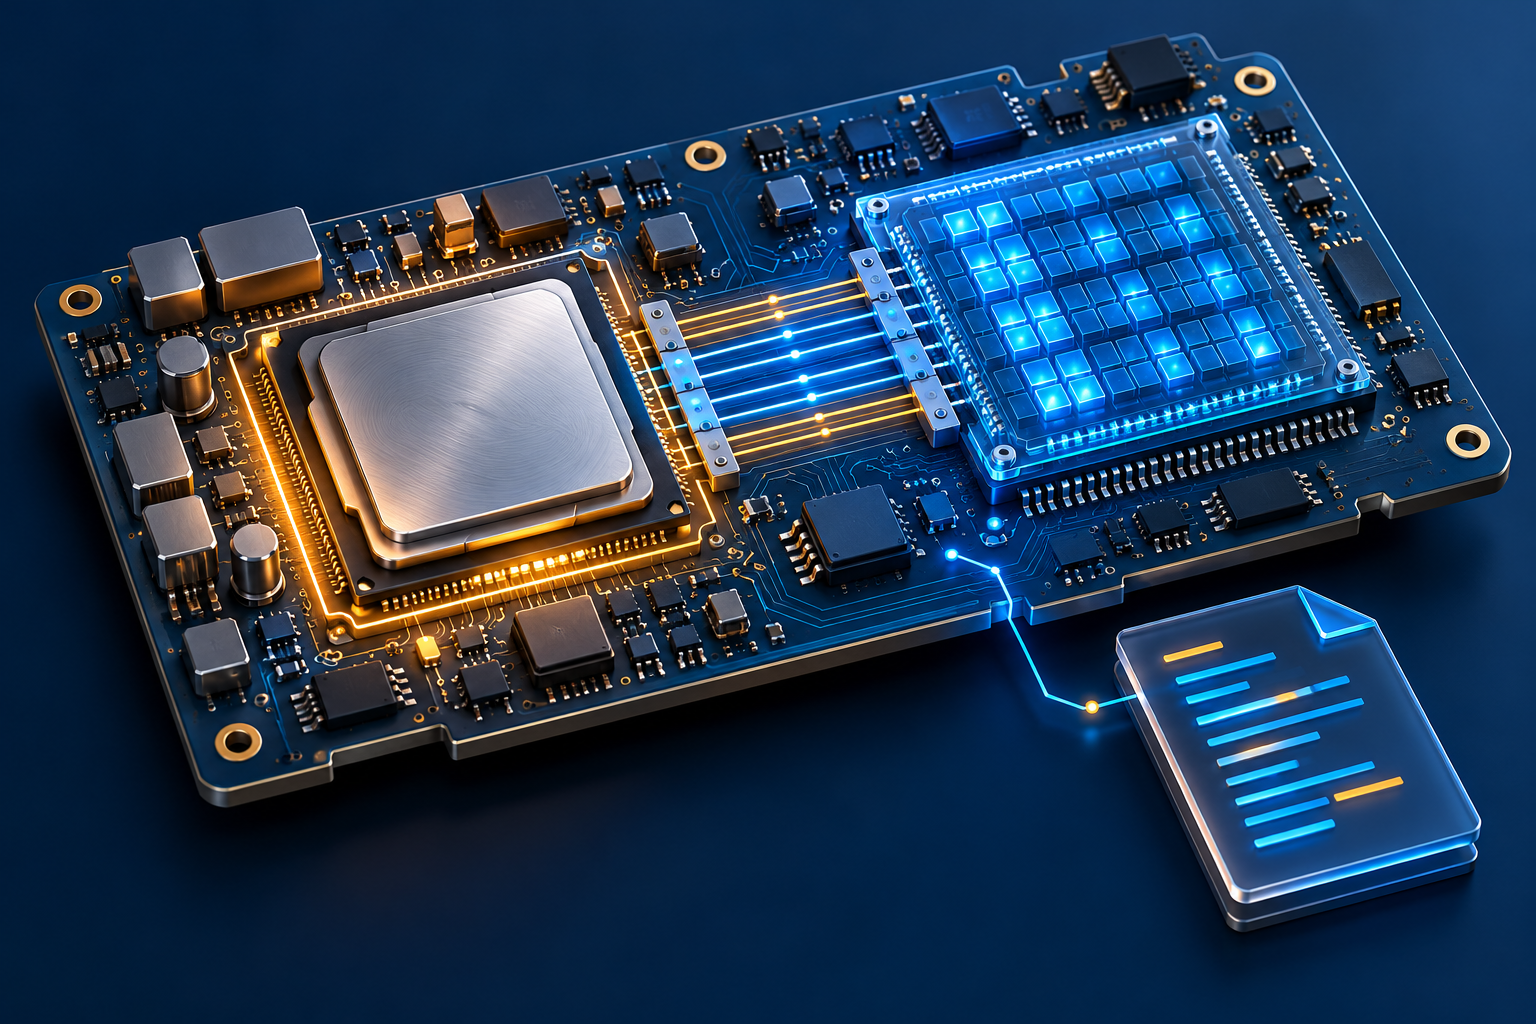
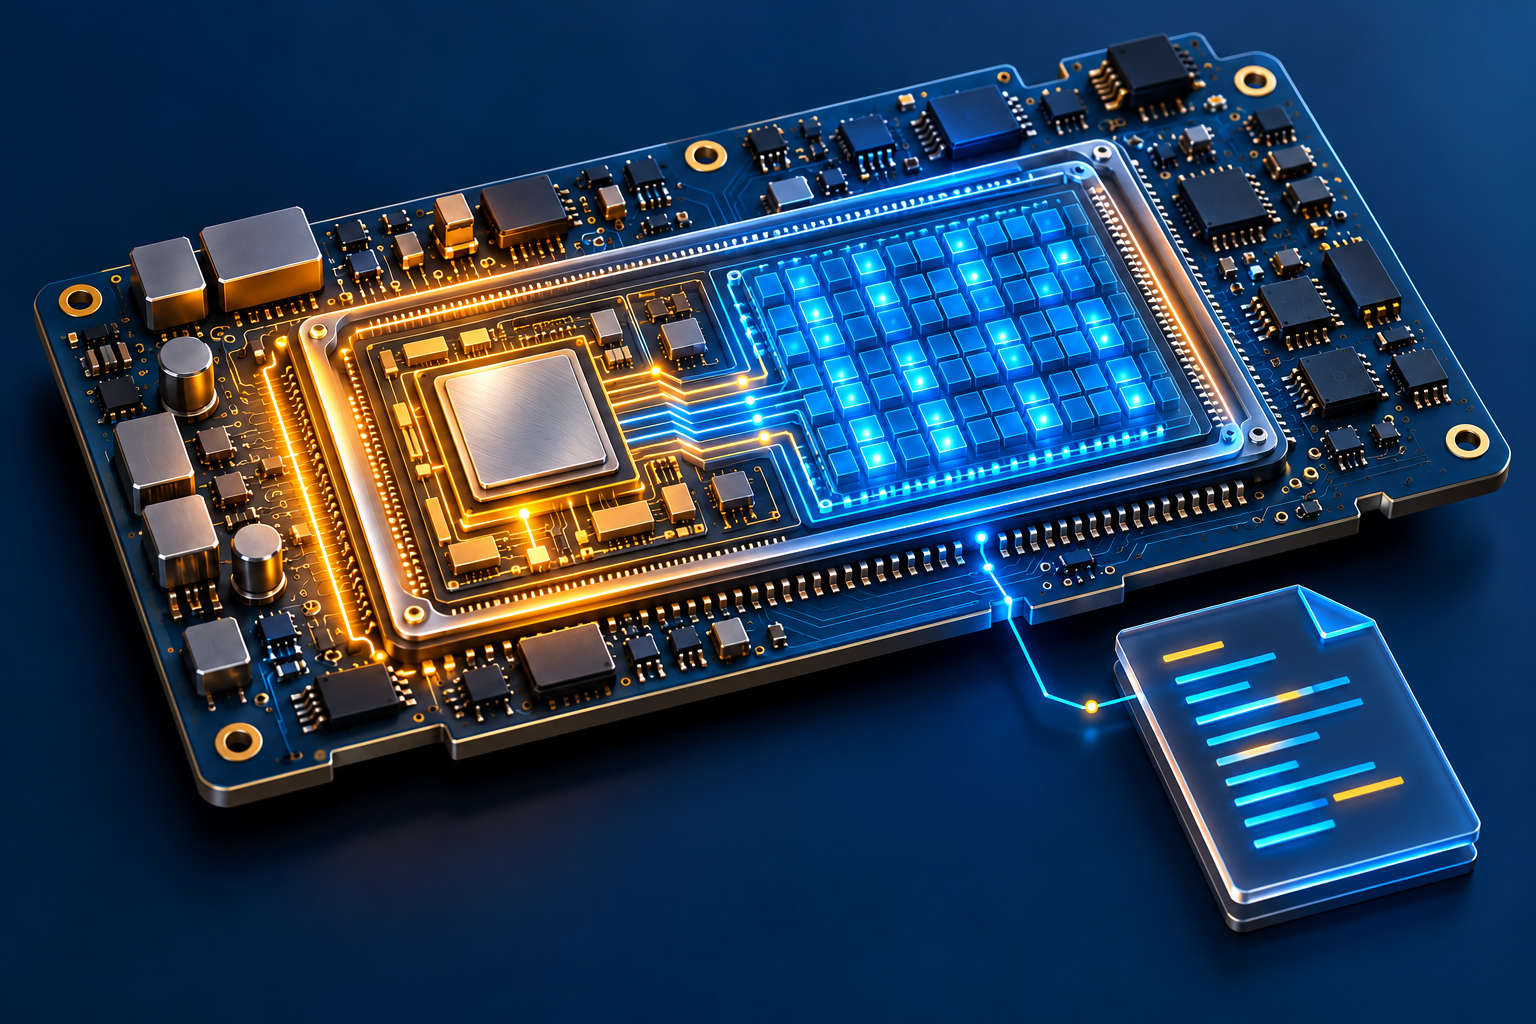
Align the Zynq cover with one-device architecture and record V2 verification

diff --git a/_includes/learning/lab.html b/_includes/learning/lab.html
@@ -15,5 +15,5 @@
   <section id="module-followup" class="module-followup" hidden></section>
   <p class="simulation-note">{% if page.course == 'git' %}A synthetic Git workspace. Buttons model selected Git actions; they do not access your files or run commands.{% else %}A simplified dependency model for standalone development with Vitis Classic 2023.2. It does not run Vivado or Vitis. Board-specific labs are outside this lesson.{% endif %}</p>
   <details class="activity-details"><summary>Your activity</summary><p>Activity and reflections stay in this browser. Experiments restart when a chapter is reopened. Completing an activity is not a mastery score.</p><button class="text-button" id="reset-course" type="button">Reset module activity</button></details>
-  <details class="source-details"><summary>Sources and model boundaries</summary>{% if page.course == 'git' %}<p>These lessons model selected file, branch, review, and integration states. They do not execute arbitrary Git commands, connect to a real GitHub account, run an AI service, or replace a real build. The checks inspect the supplied synthetic example. File tracking and review policies are specific to this project.</p><p><a href="https://git-scm.com/docs/git-add">Git add</a> · <a href="https://git-scm.com/docs/git-commit">Git commit</a> · <a href="https://git-scm.com/docs/git-push">Git push</a> · <a href="https://git-scm.com/docs/git-fetch">Git fetch</a> · <a href="https://git-scm.com/docs/git-restore">Git restore</a> · <a href="https://git-scm.com/docs/git-revert">Git revert</a> · <a href="https://git-scm.com/docs/git-merge">Git merge</a> · <a href="https://docs.github.com/en/get-started/using-github/github-flow">GitHub flow</a> · <a href="https://docs.github.com/en/actions/get-started/understand-github-actions">GitHub Actions</a> · <a href="https://docs.github.com/en/copilot/responsible-use/code-review">Responsible AI review</a></p>{% else %}<p>The version labels are illustrative. XSA export options determine whether a bitstream is included; here the hardware handoff and bitstream are shown separately. The hardware-change example changes a software-visible interface, so both sides need attention. Real build dependencies and boot contents depend on the selected design and board.</p><p>AMD specifies <code>vitis --classic</code> for Classic in 2023.2 and refers Classic users to the 2023.1 documentation. The lab uses those concepts without claiming screenshots or physical verification.</p><p><a href="https://docs.amd.com/r/2023.2-English/ug1400-vitis-embedded/Changed-Behavior">2023.2 version boundary</a> · <a href="https://docs.amd.com/r/2023.1-English/ug1400-vitis-embedded/Target-Platform">Classic platform</a> · <a href="https://docs.amd.com/r/2023.1-English/ug1400-vitis-embedded/bsp">BSP</a> · <a href="https://docs.amd.com/r/2023.1-English/ug1400-vitis-embedded/Linker-Scripts">Linker scripts</a> · <a href="https://xilinx.github.io/Embedded-Design-Tutorials/docs/2023.1/build/html/docs/Introduction/Zynq7000-EDT/2-using-zynq.html">PS-only design</a></p>{% endif %}</details>
+  <details class="source-details"><summary>Sources and model boundaries</summary>{% if page.course == 'git' %}<p>These lessons model selected file, branch, review, and integration states. They do not execute arbitrary Git commands, connect to a real GitHub account, run an AI service, or replace a real build. The checks inspect the supplied synthetic example. File tracking and review policies are specific to this project.</p><p><a href="https://git-scm.com/docs/git-add">Git add</a> · <a href="https://git-scm.com/docs/git-commit">Git commit</a> · <a href="https://git-scm.com/docs/git-push">Git push</a> · <a href="https://git-scm.com/docs/git-fetch">Git fetch</a> · <a href="https://git-scm.com/docs/git-restore">Git restore</a> · <a href="https://git-scm.com/docs/git-revert">Git revert</a> · <a href="https://git-scm.com/docs/git-merge">Git merge</a> · <a href="https://docs.github.com/en/get-started/using-github/github-flow">GitHub flow</a> · <a href="https://docs.github.com/en/actions/get-started/understand-github-actions">GitHub Actions</a> · <a href="https://docs.github.com/en/copilot/responsible-use/code-review">Responsible AI review</a></p>{% else %}<p>The version labels are illustrative. XSA export options determine whether a bitstream is included; here the hardware handoff and bitstream are shown separately. The hardware-change example changes a software-visible interface, so both sides need attention. Real build dependencies and boot contents depend on the selected design and board.</p><p>AMD specifies <code>vitis --classic</code> for Classic in 2023.2 and refers Classic users to the 2023.1 documentation. The lab uses those concepts without claiming screenshots or physical verification.</p><p><a href="https://github.com/Xilinx/Embedded-Design-Tutorials/blob/master/docs/Getting_Started/Zynq7000-EDT/1-introduction.rst">PS/PL device architecture</a> · <a href="https://docs.amd.com/r/2023.2-English/ug1400-vitis-embedded/Changed-Behavior">2023.2 version boundary</a> · <a href="https://docs.amd.com/r/2023.1-English/ug1400-vitis-embedded/Target-Platform">Classic platform</a> · <a href="https://docs.amd.com/r/2023.1-English/ug1400-vitis-embedded/bsp">BSP</a> · <a href="https://docs.amd.com/r/2023.1-English/ug1400-vitis-embedded/Linker-Scripts">Linker scripts</a> · <a href="https://xilinx.github.io/Embedded-Design-Tutorials/docs/2023.1/build/html/docs/Introduction/Zynq7000-EDT/2-using-zynq.html">PS-only design</a></p>{% endif %}</details>
 </div>

diff --git a/docs/v2/verification.md b/docs/v2/verification.md
@@ -1,0 +1,77 @@
+# V2 verification · 2026-10-26
+
+V2 is ready as a checked static preview on `codex/interactive-learning`. It has two
+topics, six connected modules, and 23 mapped chapters. This record describes what
+was actually checked; activity completion is not evidence of learner mastery.
+
+## Build and automated evidence
+
+- Source validation passes for 16 public pages, two retained scenario specifications,
+  navigation, links, compatibility routes, and internal-source exclusions.
+- Forty-one Node checks pass. They cover domain transitions, stale evidence and build
+  inputs, resume ID validation, abbreviation boundaries across separate DOM labels,
+  and curriculum integrity. Snapshot and independent-file integration invariants also
+  agree with real Git in isolated temporary repositories.
+- [Build for `1749fa3`](https://github.com/itshaihong/StudentGuide/actions/runs/40222364760)
+  passed the source checks, model checks, actual Jekyll build, and built-site checks.
+  Its `studentguide-site` artifact was downloaded to `_site/` for browser verification.
+- Built-site checking also passed locally against that artifact: required routes,
+  local links and images, and exclusions. No research source, project memory, or
+  scoped AGENTS file is included in the public output.
+
+## Desktop browser walkthroughs
+
+The actual Jekyll build was exercised in Microsoft Edge at the `/StudentGuide/`
+base path. Each module reached its final activity outcome, including wrong paths and
+repairs. Test reflections and completion records were then removed with each module’s
+own reset dialog; earlier legacy activity was not cleared.
+
+| Module | Observed behavior |
+| --- | --- |
+| Own a project with Git | Init creates management without a commit; baseline survives later edits. Native drag staging captures source content without removing the file. The equivalent button stages the test. An unrelated README change fails the scope check and can be unstaged. Entering 125 ms changes the working file while the index stays 500 ms; another add captures 125 ms. Branch, check, commit, push, three recovery cases, and reflection finish. |
+| Integrate a teammate’s work | Fetch advances tracking without changing the feature. Divergence rejects fast-forward. The merge includes both changes. Keeping one side of the cadence conflict fails the two requirements; separating settings passes. Current integration checks precede sharing and handoff. |
+| Ship with GitHub and AI | Project surfaces match the four tasks. Missing context and fake credential inclusion are rejected. Entering 10 exposes the proposed exclusive-boundary defect. Added boundary checks fail, the fix passes, and current review completes. A later README edit makes merge evidence stale; refreshed checks/review permit merge. Tagging old r1 fails, then the tested revision and release handoff finish. |
+| Take over an embedded project | CPU software can set a local value before PL configuration; the register write is blocked until the required circuit exists. After the write, toggling the external input changes PL output while CPU instruction count stays at two. Artifact cards, linker distinction, native drag classification, direct classification buttons, and all seven ownership decisions work. |
+| Coordinate a hardware change | Loading old host artifacts preserves a mismatch. Rebuilding against stale support keeps old hardware assumptions. Updating handoff/support/build/configuration and then loading aligns the model. A v2 filename is rejected as proof; aligning the inspected package permits host acceptance. A reflection draft survives redraws and is saved. |
+| Deliver and diagnose a build | Power-on initially restores the old program, and installing a matching example boot setup changes the next result. Diagnosis requires relevant observations in all three cases. Clean rebuild exposes stale maintained settings. Updating settings and recording sources/environment/honest limits produces the delivery; an unsupported physical boot claim fails validation. |
+
+## Navigation, accessibility, and visual checks
+
+- Clicking a topic opens chapter selection grouped by three modules. Practiced marks
+  and counts reflect the module records. The Continue link returns to the last visited
+  chapter; opening a module without a hash restores that chapter by stable ID.
+- Reopening retains the saved reflection and activity, while the experiment restarts.
+  Reset clears only the selected module, restores chapter one, and removes its reflection.
+- At a 390 × 844 viewport, the PS/PL diagram stacks with readable HTML labels and no
+  document overflow. The working-interval input and topic selection also fit without
+  horizontal document scrolling. This is a phone-size browser check, not a physical
+  touch-device test of every chapter.
+- With reduced motion requested, affected displays retain Changed markers and outlines
+  while computed animation is `none`. The external-input action highlights the input,
+  output, and result, without marking CPU state as changed.
+- Inline definitions open by click and dismiss with Escape, returning focus to their
+  opener. Numeric input 0 is invalid for the working interval and leaves state unchanged;
+  Enter submits a valid 750 ms experiment. Ordinary buttons provide drag alternatives.
+- Visible abbreviation notes cover terms outside the preferred glossary list, including
+  file/state headings. Full names in closed details do not suppress visible notes.
+- All six generated covers were visually inspected. The foundations cover was corrected
+  to one shared conceptual chip package, avoiding a PS/PL two-chip implication. Asset
+  purpose, prompts, and sources are in [visual assets](visual-assets.md).
+- The final diagram page reported no browser console errors. A stale preview stylesheet
+  discovered during review was corrected with a hard refresh; the layout now uses a
+  build-versioned stylesheet URL to avoid that ambiguity.
+- Existing pilot hash routes remain functional, including `/modules/git/#chapter-3`.
+  Original guide and image routes pass built-link validation.
+
+## Limits and publication
+
+The models are synthetic. They do not run arbitrary Git, GitHub, an AI service, Vivado,
+or Vitis, and no physical board has been selected or tested. Saved reflections are
+ungraded. Phone testing was targeted; no blanket physical-device or assistive-technology
+certification is claimed.
+
+The existing public GitHub Pages source was last verified as main/root. The available
+account can push this feature branch but could not change the repository’s Pages
+setting. Publishing still needs the repository owner’s source-setting action described
+in [deployment](../deployment.md). Passing validation and updating the local preview
+do not establish that the public site has changed.

diff --git a/PROJECT_MEMORY.md b/PROJECT_MEMORY.md
@@ -26,23 +26,26 @@ change; keep detailed evidence in the linked documents.
 
 ## Current state
 
-V1 is committed and pushed through `2235359`. It has two independent pilot labs,
-five Git chapters and six Zynq chapters. V2 is in progress: all six modules and 23 mapped chapters are implemented in source.
-Its durable rules live in `docs/v2/`; `_data/curriculum.json` and `_data/terms.json` own
-the structure and definitions. Forty automated checks pass. The actual V2 build
-and browser release gates remain pending; do not infer them from source tests.
+V2 is implemented on `codex/interactive-learning`: two topics, six coherent modules,
+23 chapters, and 41 passing automated checks. Actual GitHub Actions Jekyll builds
+and built-site validation pass. All six modules have desktop browser walkthroughs;
+phone, keyboard, numeric input, actual native drag/drop, local resume, saved reflection,
+reset, and reduced-motion checks are recorded in `docs/v2/verification.md`.
 
-The first V2 implementation must include all six coherent modules, contextual
-definitions, visible state transitions, navigation/prerequisites, model checks,
-build checks, and browser walkthroughs. Do not call the work complete after a
-visual refresh or a plan alone.
+The topic page opens chapter selection grouped by module. Practice and last-chapter
+IDs persist in browser-local storage; experiment state restarts. Git staging and
+source classification support drag/drop and direct buttons. Inputs let learners
+change the working interval and probe a proposed validator. Abbreviation full names
+are visible beside the task; definitions provide optional extra context.
 
-The first V2 source commit `38fbde2` passed its GitHub Actions Jekyll build.
-Further source now implements drag/drop staging and classification with button alternatives,
-editable Git intervals and validator probes, topic chapter selection with stable-ID resume,
-six generated module covers, visible acronym expansions, and an interactive PS/PL diagram.
-The diagram distinguishes fixed PS hardware executing software from configured PL digital
-logic. Its CPU/register/input model is tested; actual browser release verification remains pending.
+The PS/PL diagram shows separate application and bitstream paths, CPU instructions,
+a memory-mapped control register, and configured digital logic responding to an
+external input while CPU stepping is paused. Both PS and PL are hardware. Six original
+module covers are in use; the foundations cover depicts one shared chip package.
+
+The runtime was verified through `1749fa3` after the first V2 implementation at
+`38fbde2`. The checked preview is ready; it is not yet the live Pages site. Detailed
+evidence and image provenance are linked below. Maintain this memory in place.
 
 ## Architecture and evidence
 
@@ -52,7 +55,8 @@ logic. Its CPU/register/input model is tested; actual browser release verificati
 - Zynq teaching boundary: Classic 2023.2, standalone concepts. No board has been selected
   or physically tested. Board procedures require separate primary-source verification.
 - Imported Word research and its transcription stay local and ignored by Git.
-- V1 verification: `docs/verification.md`; publication details: `docs/deployment.md`.
+- V2 verification: `docs/v2/verification.md`; V1 chronology: `docs/verification.md`;
+  publication details: `docs/deployment.md`.
 - Last verified Pages setting on 2026-10-26: main/root, legacy Jekyll publishing.
   API and browser accounts could push but could not change Pages settings. The native
   settings page explicitly denied repository-options access. An owner action is needed

diff --git a/docs/architecture.md b/docs/architecture.md
@@ -8,7 +8,8 @@ account system, backend, or new hosting service for the learning site.
 
 Public content is separated by purpose:
 
-- `topics/<topic-id>/index.md` introduces the prerequisite sequence and module outcomes.
+- `topics/<topic-id>/index.md` opens chapter selection, grouped by module, with
+  prerequisites, local progress, and a validated last-chapter Continue link.
 - `modules/<topic-id>/<module-name>/index.md` hosts an interactive module. Its mapped
   chapters come from `_data/curriculum.json`; URLs and activity IDs remain stable.
 - The original `modules/git/` and `modules/zynq-7000/` pilots retain their old URLs and
@@ -46,7 +47,7 @@ reserved asset locations are:
 | `assets/js/learning/` | Shared browser behavior such as reset and feedback |
 | `assets/js/modules/<module-id>/` | Small, module-specific state transitions |
 | `assets/css/learning/` | Styles for the learning controls and diagrams |
-| `assets/images/modules/<module-id>/` | Original diagrams and licensed lesson assets |
+| `assets/images/modules/` | Original conceptual module covers; precise diagrams use HTML/SVG |
 | `assets/data/<module-id>/` | Explicitly selected public data for a reviewed lesson |
 
 Do not create a framework or unused asset tree in advance. Keep lesson meaning in
@@ -108,3 +109,17 @@ Configuration references: [Jekyll options](https://jekyllrb.com/docs/configurati
 Root and scoped AGENTS files plus `PROJECT_MEMORY.md` are authoring material and are
 excluded from Jekyll output. Maintain the single memory in place and link detailed
 verification records; do not create parallel current-state files.
+
+- `activity.mjs` validates stable chapter/module IDs for resume links. `course.mjs`
+  owns each module’s completion, saved reflection, and last chapter; `progress.mjs`
+  reads those records on topic pages. V2 activity keys are
+  `studentguide:activity:v2:<module-id>`; topic resume keys are
+  `studentguide:resume:v2:<topic-id>`. Exercises restart on reopening.
+- `drag.mjs` binds native drag/drop to the same domain actions as buttons. Git staging
+  copies content into the index; it does not move the working file. Classification
+  also has direct buttons for keyboard and touch. External drops are not accepted.
+- `terms.mjs` shows abbreviation expansions in visible notes, unless the full name
+  is already visible. Optional definitions add context rather than hiding full names.
+- `zynq-7000/execution-model.mjs` isolates the conceptual CPU/register/AND-circuit
+  model. Its renderer in `roles.mjs` is shared by the retained pilot and V2 foundations.
+- `docs/v2/visual-assets.md` records cover prompts, intended use, and diagram sources.

diff --git a/docs/v2/visual-assets.md b/docs/v2/visual-assets.md
@@ -18,7 +18,7 @@ concept illustration rather than a factual hardware diagram or screenshot.
 | `assets/images/modules/git-solo.png` | Engineering laptop with abstract code bars, project folder, three chronological snapshot plates. |
 | `assets/images/modules/git-team.png` | Two engineering workstations; distinct commit paths converge at a central integration node. |
 | `assets/images/modules/github-ai.png` | Patch review magnifier, test matrix with an amber boundary case, subordinate assistant node; no robot. |
-| `assets/images/modules/zynq-foundations.png` | Generic conceptual board, CPU-like block beside configurable logic grid and connections; no actual pinout or vendor claims. |
+| `assets/images/modules/zynq-foundations.png` | One unified conceptual chip package containing a CPU region and configurable logic grid, with internal connections; no actual pinout or vendor claims. |
 | `assets/images/modules/zynq-handoff.png` | Generic board and artifact plates; stale handoff replaced by a matching handoff; no actual pinout. |
 | `assets/images/modules/zynq-delivery.png` | Generic test bench, probe, simple oscilloscope trace, conceptual delivery manifest; no physical test claims. |
 
@@ -35,3 +35,9 @@ for the PS/PL device structure and hardware/software separation;
 [AMD UG1400 2023.2: XSA export](https://docs.amd.com/r/2023.2-English/ug1400-vitis-embedded/Creating-a-Hardware-Design-XSA-File)
 for Xilinx Shell Archive terminology. The AND circuit is an original teaching example,
 not an asserted board-specific peripheral or universal PS/PL architecture.
+
+The foundations cover was edited with `image_gen` after visual review: preserve its
+style, board, composition, and artifact plate, but replace two large packages with
+one continuous shared package boundary containing the fixed CPU region and configurable
+logic grid. The corrected image was inspected and replaces the same saved asset.
+This is an editorial cutaway, not a silicon floorplan or a board selection.

diff --git a/docs/roadmap.md b/docs/roadmap.md
@@ -6,11 +6,12 @@ V2 implements two topics with three modules each, following the sequence in
 `_data/curriculum.json` and `docs/v2/curriculum.md`. The durable product rules are in
 `docs/v2/product-rules.md`, and the single current project memory is `PROJECT_MEMORY.md`.
 
-The six modules, 23 mapped chapters, contextual definitions, and change-emphasis runtime
-are implemented in source. Thirty-six automated checks pass locally. Actual V2 Jekyll
-build and desktop/mobile browser verification are the next release gates.
+The six modules, 23 mapped chapters, contextual definitions, chapter selection and
+resume, drag/drop and editable experiments, original covers, and interactive PS/PL
+diagram are implemented. Forty-one automated checks and the Jekyll build pass. All
+six modules have browser walkthrough evidence, with phone and reduced-motion spot
+checks recorded in `docs/v2/verification.md`. The checked preview is ready.
 
-After those gates pass, record the actual evidence and deliver the checked preview.
 Publishing at the existing GitHub Pages address still requires an owner to change the
 source setting, as last verified in `docs/deployment.md`. Main remains untouched.
 

diff --git a/docs/authoring.md b/docs/authoring.md
@@ -32,6 +32,13 @@ reduced-motion information and keyboard focus.
 - Buttons and choices work with a keyboard, focus is visible, and feedback is readable
   without relying only on color. Interactive feedback is announced accessibly.
 - The layout remains usable on a narrow screen and at increased text size.
+- Full abbreviation names are visible nearby. A closed definition or details panel
+  does not count as a visible expansion.
+- Drag/drop has equivalent buttons or keyboard controls. Staging copies a snapshot
+  rather than visually removing a working file. Editable values expose meaningful
+  behavior, use labelled fields, and reject values outside the exercise contract.
+- Topic links open grouped chapter selection. Stable-ID practice and last-location
+  records survive reopening; resetting one module does not erase another’s progress.
 - Completion records an activity. Understanding requires an explanation and an independent variation.
 
 ## Git pilot review

diff --git a/README.md b/README.md
@@ -11,9 +11,11 @@ Lessons use original finite-state browser models, contextual definitions, target
 change highlights, accessible feedback, local activity records, and ungraded reflections.
 The original pilot routes and reference guides remain available.
 
-Current work: the six-module implementation and 36 automated checks are in place;
-actual V2 build and browser verification are in progress. See `PROJECT_MEMORY.md` and
-`docs/v2/` for decisions and acceptance criteria.
+V2 has passed 41 automated checks, a GitHub Actions Jekyll build, and browser
+walkthroughs of all six modules. Chapter selection, local resume, drag/drop, editable
+inputs, and the interactive PS/PL diagram are included. See `docs/v2/verification.md`
+for scope and limits. Publication still requires the owner’s Pages source change;
+the checked feature branch and local preview are ready.
 
 ## Find the right place
 

diff --git a/docs/verification.md b/docs/verification.md
@@ -1,5 +1,7 @@
 # Verification record
 
+For the completed six-module V2 checks, see [V2 verification](v2/verification.md).
+
 This is a chronological record. The interactive release evidence below supersedes
 the initial build limitation.
 
